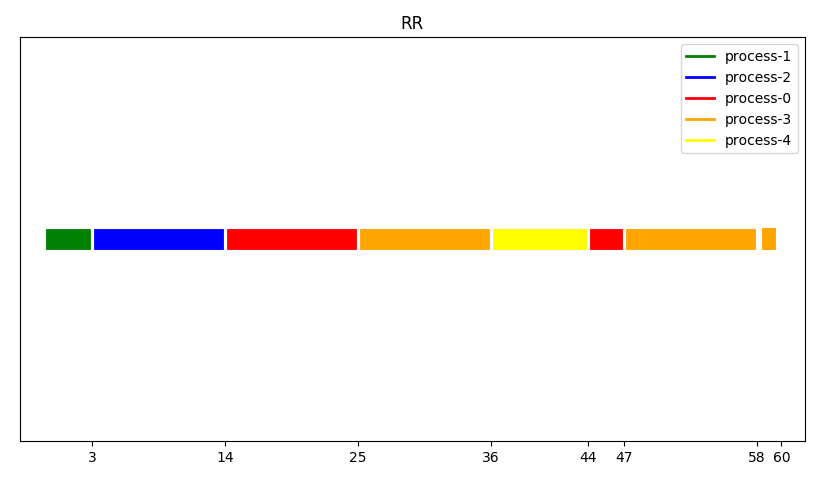
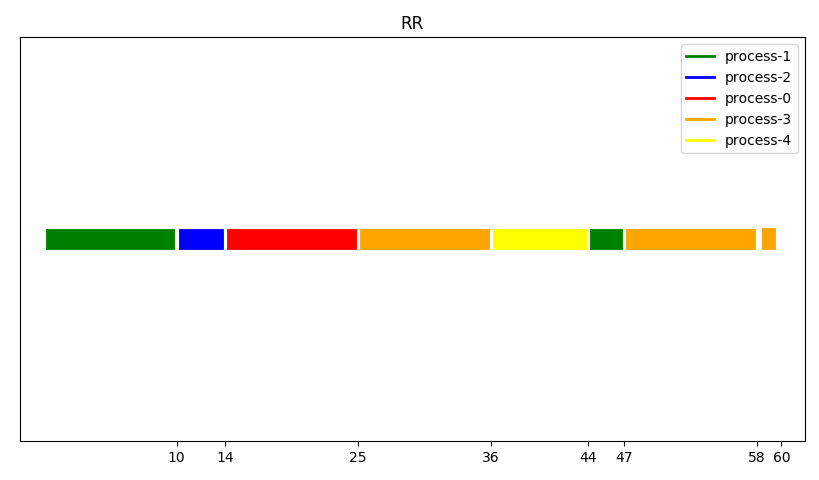
fix sum bug in RR

diff --git a/part1.py b/part1.py
@@ -25,16 +25,16 @@ def worker():
         print(OKBLUE + f'Working on {item.process_id}' + ENDC)
 
         # work of the state process by waiting CPU Burst of the process
-        # print(simulator == 'RR')
         if simulator == 'RR':
-            if burst_time[item.process_id] - round_Q > 0:
+            p_burst = burst_time.loc[burst_time["Process ID"] == item.process_id, 'CPU Burst'].item()
+
+            if p_burst - round_Q > 0:
                 wating_time = round_Q
-                burst_time[item.process_id] -= round_Q
-                q.put(item)
                 finished = False
             else:
-                wating_time = burst_time[item.process_id]
+                wating_time = p_burst
                 finished = True
+            burst_time.loc[burst_time["Process ID"] == item.process_id, 'CPU Burst'] -= wating_time
         else:
             wating_time = table[table["Process ID"] == item.process_id]["CPU Burst"].item()
         time.sleep(time_unit * wating_time)
@@ -43,7 +43,9 @@ def worker():
 
         # recoded the result
         if finished:
-            ct.append(int(time_out * 10))
+            copy_table.loc[copy_table["Process ID"] == item.process_id, 'Finish time'] = int(time_out * 10)
+        else:
+            q.put(item)
         result.append((item.process_id, int(time_in * 10), int(time_out * 10)))
 
         # remove the process and free the memory from it
@@ -58,7 +60,7 @@ def worker():
 information, table = read_data()
 physical_mem_size, page_size, round_Q, CS = information
 table = table.sort_values(by=['Arrival Time']).reset_index(drop=True)
-burst_time = table["CPU Burst"].to_numpy().copy()
+burst_time = table[['Process ID', 'CPU Burst']].copy()
 
 # general variables for cpu time unit and refrain time
 time_unit = 0.1
@@ -72,7 +74,8 @@ map_unit = PageMap(physical_mem_size, page_size)  # map unit between pages and f
 # iteration for all simulator mode and find the result for each of them
 for sem in simulator_list:
     result = []  # final result
-    ct = []  # complete time for each process
+    copy_table = table.copy()
+    copy_table["Finish time"] = np.zeros(table.shape[0])  # complete time for each process
     i = 0
     if sem == 'SJF':
         q = queue.PriorityQueue()
@@ -94,13 +97,19 @@ for sem in simulator_list:
             wait = table["Arrival Time"][i + 1] - t
 
         time.sleep(time_unit * wait)
-
         i += 1
 
     q.join()
-    print(result)
+
     grantt_charts(result, sem)
-    awt = average_waiting_time(table["Arrival Time"].to_numpy(),
-                               table["CPU Burst"].to_numpy(), np.array(ct))
-    print('\n' + WARNING + f'average waiting time for {sem} : {awt}' + ENDC)
-    print('\n' + WARNING + f'cpu utilization for {sem} : {cpu_utilization(result)}' + ENDC + '\n')
+    result_table, average_turnaround_time, average_waiting_time = summary(copy_table)
+
+    desired_width = 320
+    pd.set_option('display.width', desired_width)
+    pd.set_option('display.max_columns', None)
+
+    print(result_table)
+    print('\n' + WARNING + f'average turnaround time for {sem} : {average_turnaround_time}' + ENDC)
+    print(WARNING + f'average waiting time for {sem} : {average_waiting_time}' + ENDC)
+    print(WARNING + f'cpu utilization for {sem} : {cpu_utilization(result)}' + ENDC + '\n')
+    print(OKBLUE+'----------------'*6+ENDC+'\n')

diff --git a/util/Preprocessor.py b/util/Preprocessor.py
@@ -16,9 +16,11 @@ def read_data(file_name='processes.txt'):
     return information, table
 
 
-def average_waiting_time(at, bt, ct):
-    tat = ct - at
-    return (tat - bt).mean()
+def summary(table):
+    table["Turnaround Time"] = table["Finish time"] - table["Arrival Time"]
+    table["Waiting Time"] = table["Turnaround Time"] - table["CPU Burst"]
+
+    return table, table["Turnaround Time"].mean(), table["Waiting Time"].mean()
 
 
 def cpu_utilization(data):
